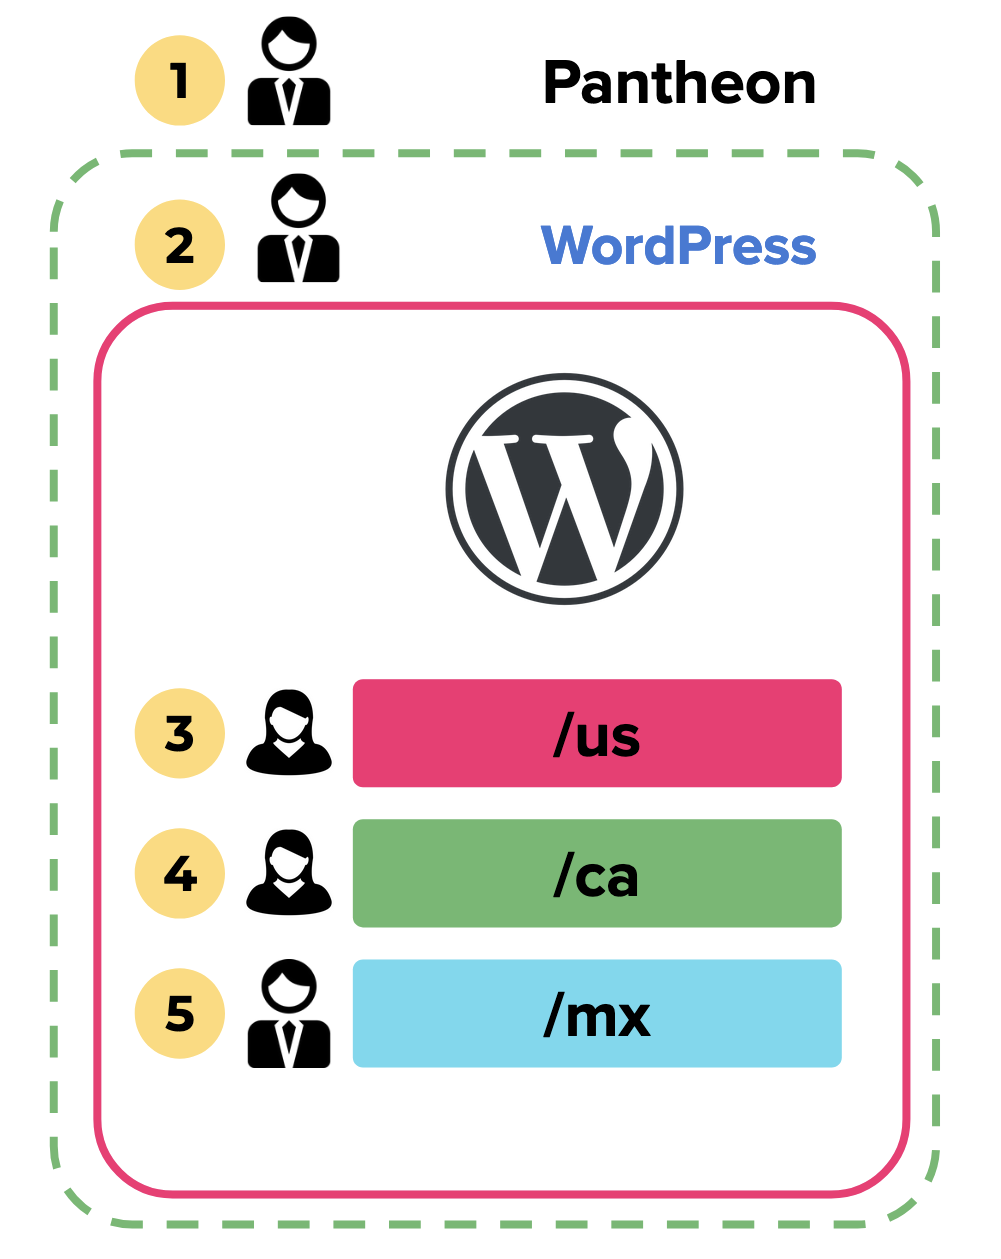
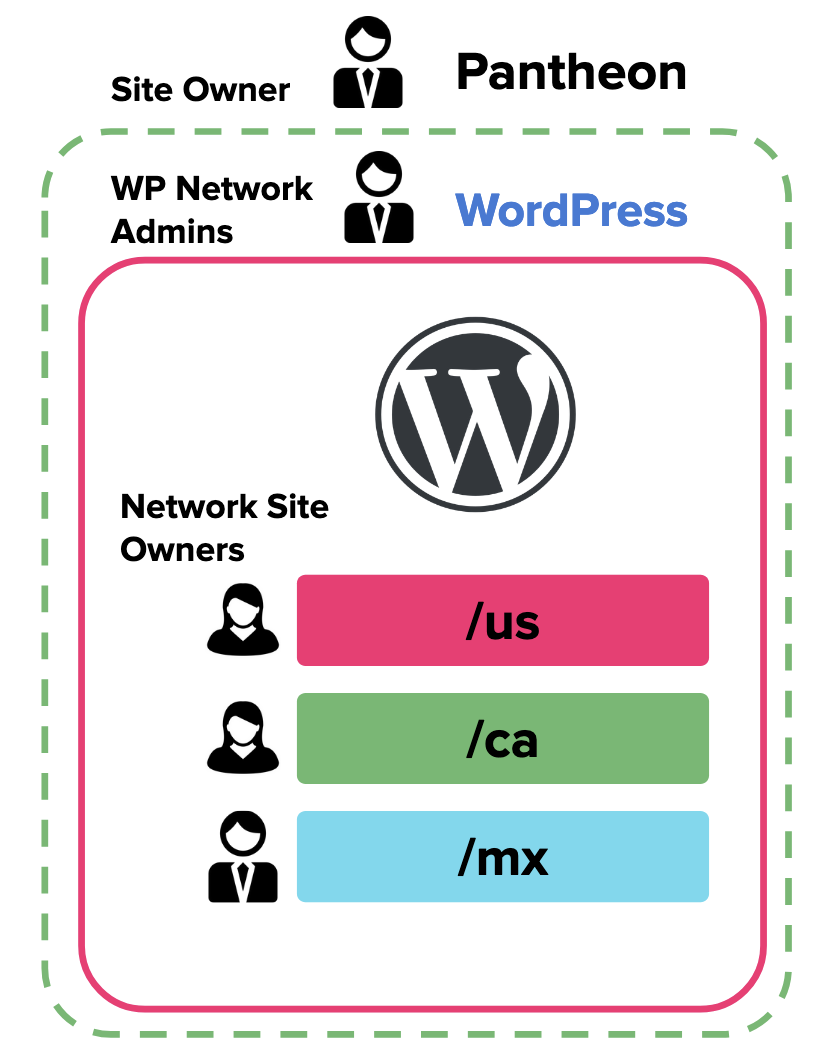
copyedits and image optimization

diff --git a/source/content/guides/multisite/04-multisite-governance.md b/source/content/guides/multisite/04-multisite-governance.md
@@ -21,22 +21,22 @@ There are two primary layers involved in the governance system when you own a mu
 - Organization admin (full portfolio)
 
     - Site owner (specific WP site)
-
+    
 **WordPress**
 
 - Network site admin (all sites)
 
     - Site admin (individual site)
 
-This means that both Pantheon and you manage your multisite.
+This means that both Pantheon and your team manage different aspects of your multisite.
 
-Pantheon's responsibilities:
+Pantheon's responsibilities include:
 
 - Managing themes
 - Administration
 - Other technical aspects
 
-Your responsibilities:
+Your team's responsibilities include:
 
 - Content creation and editing
 - Content accessibility
@@ -48,7 +48,7 @@ Your responsibilities:
 
 ## Multiple, Single Site Governance
 
-Each WordPress site is owned or maintained by a different group at the Pantheon level. There is a management difference between who owns the Pantheon account and can update code versus who manages the application with content and site-specific configuration.
+Each WordPress site is owned or maintained by a different group at the Pantheon level. There is a management difference between who owns the Pantheon account and can update code versus who manages the application with content and site-specific configuration. For example:
 
 - Site Owner US owns the US Pantheon site
 
@@ -62,19 +62,22 @@ Each WordPress site is owned or maintained by a different group at the Pantheon 
 
 ## Multisite Governance
 
-A multisite setup setup can be more efficient for teams as long as roles and responsibilities are defined.
+A multisite setup can be more efficient for teams as long as roles and responsibilities are defined.
 
-**1 Pantheon Owner**
+**Pantheon Owner**
+- 1 person in this role
 - Pays for account
 - Manages users who manage the platform, such as adding plugins, running backups, etc.
 
-**2 WordPress Network Administrator**
+**WordPress Network Administrator**
 
+- 2 people in this role
 - Manages the core WP site
-- Assigns users to country-specific subsites.
+- Assigns users to country-specific subsites
 
 **3 - 5 Individual Network Site Owners**
 
-- Manages content and plugin settings for an individual multisite. 
+- 3 - 5 people in this role
+- Manages content and plugin settings for an individual multisite
 
 ![Multisite Governance Example](../../../images/multisite-governance-example.png)
